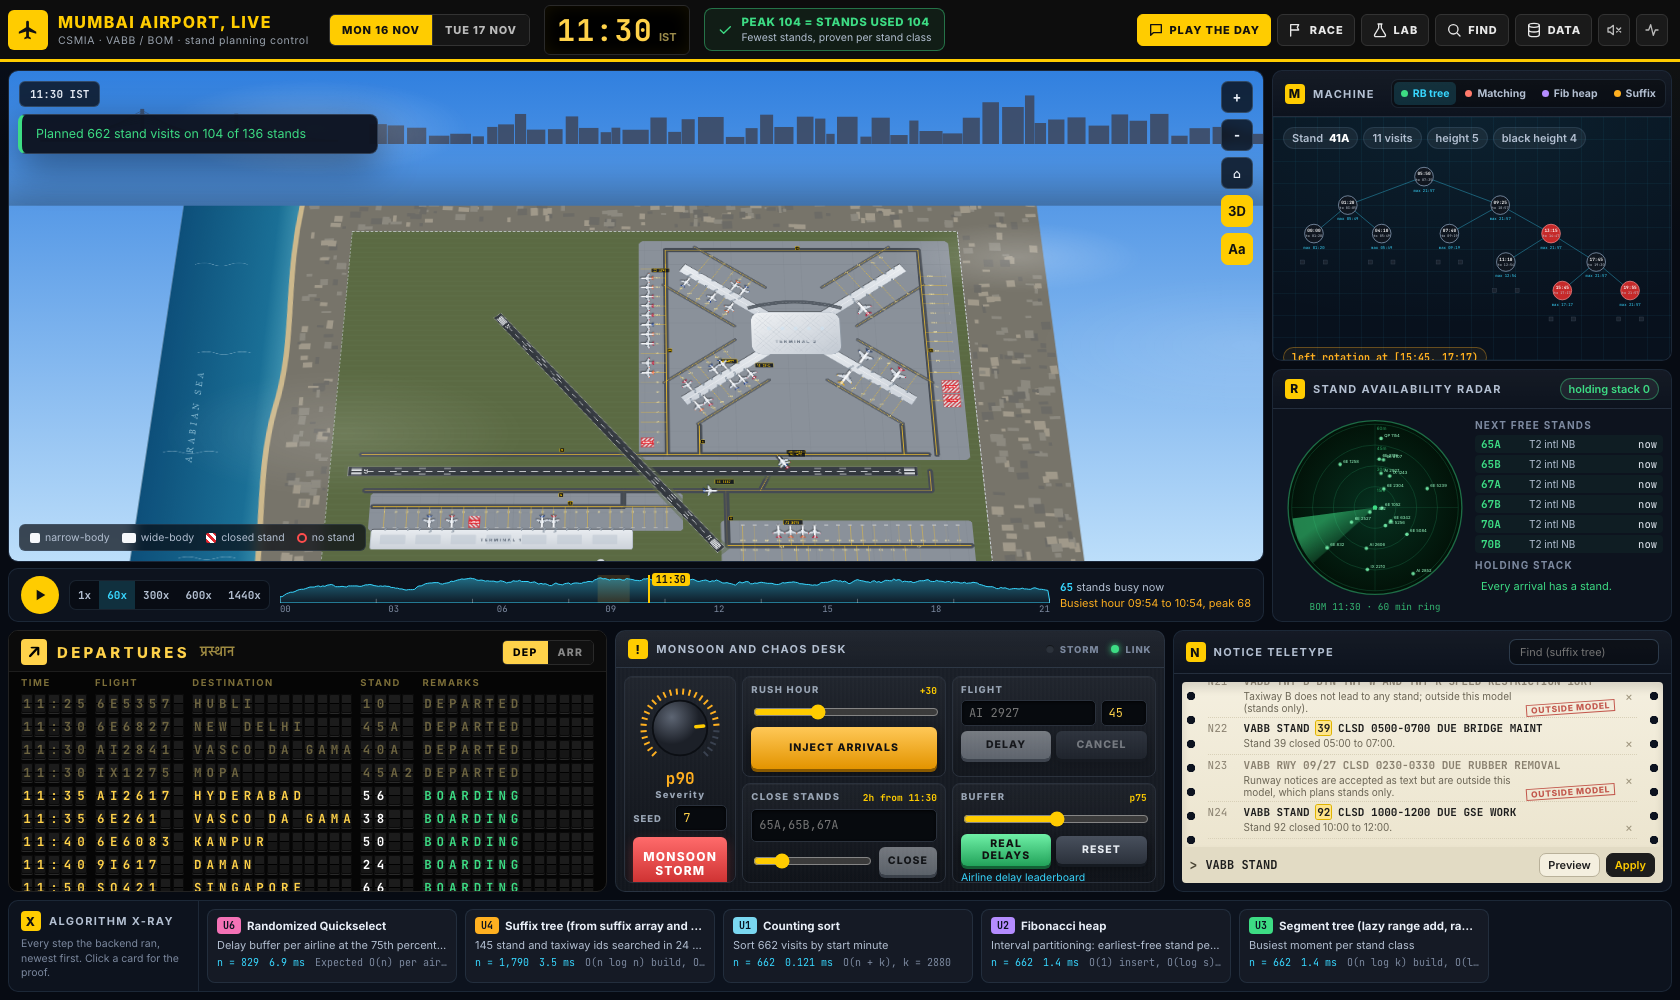
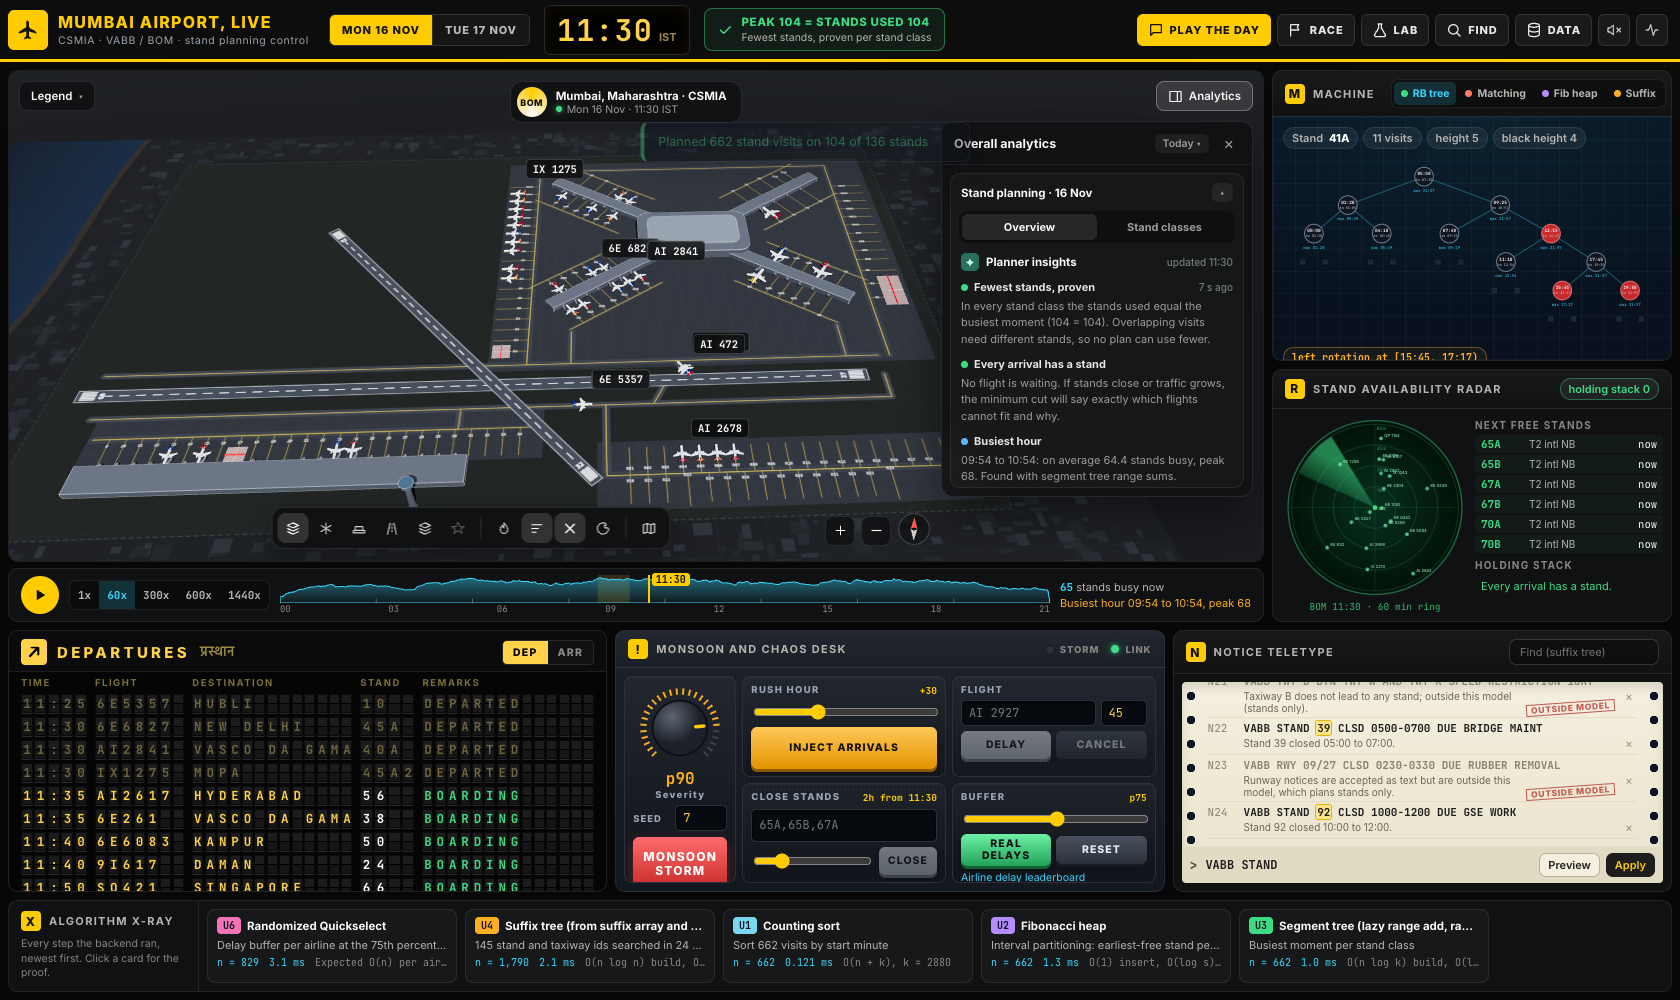
readme: 3d view and new screenshots

diff --git a/README.md b/README.md
@@ -20,6 +20,7 @@ ATLAS SkillTech University. Team: Bhavya Patel and Tanushree.
 
 | Feature | What you see | Algorithm (unit) |
 |---|---|---|
+| 3D digital twin | A Three.js model of the airport built from the stand layout: terminals, jet bridges and aircraft that land, taxi, park and take off; cinematic camera moves, a clay model view, an analytics panel and a 2D map fallback | Display only; every position follows the stand and times from Java |
 | Live Mumbai Day | Real flights land, taxi, park, push back and take off on a replay clock (1x to 1440x) | Counting sort (U1), segment tree (U3) |
 | Smart Stand Assignment | Every flight on a compatible stand, fewest stands per class, with a proof badge | Interval partitioning on a Fibonacci heap (U2), segment tree lower bound (U3) |
 | Delay Shield | Delay or cancel any flight; clashes found instantly and re-planned | Red-black interval tree (U3), bipartite matching (U5) |
@@ -194,20 +195,26 @@ Errors use `{error, message, details}`: 400 for invalid input (for example a neg
 
 ```
 backend/   Spring Boot app: model, data import, algo (all assessed algorithms), engine, api, bench
-frontend/  React + Vite: scene (airport and planes), hud, machine views, panels
+frontend/  React + Vite: scene3d (Three.js airport), scene (2D map), hud, machine views, panels
 data/      flights_day1.csv, flights_day2.csv, stands.csv, notices.txt, delay_stats.csv, raw/
 docs/      benchmarks (CSV and notes), screenshots
 ```
 
 ## Screenshots
 
-| Monsoon storm and recovery | The race: greedy versus matching |
+| Monsoon storm: reassignment arcs | Terminal 2 close up |
 |---|---|
-| ![Monsoon storm](docs/screenshots/storm.png) | ![The race](docs/screenshots/race.png) |
+| ![Monsoon storm](docs/screenshots/storm.png) | ![Terminal 2](docs/screenshots/terminal2.png) |
 
-| Welcome | Night operations |
+| Clay model view | 2D map |
 |---|---|
-| ![Welcome screen](docs/screenshots/welcome.png) | ![Night](docs/screenshots/night.png) |
+| ![Clay model](docs/screenshots/clay.png) | ![2D map](docs/screenshots/map2d.png) |
+
+| The race: greedy versus matching | Night operations |
+|---|---|
+| ![The race](docs/screenshots/race.png) | ![Night](docs/screenshots/night.png) |
+
+![Welcome screen](docs/screenshots/welcome.png)
 
 ## Contributions
 
